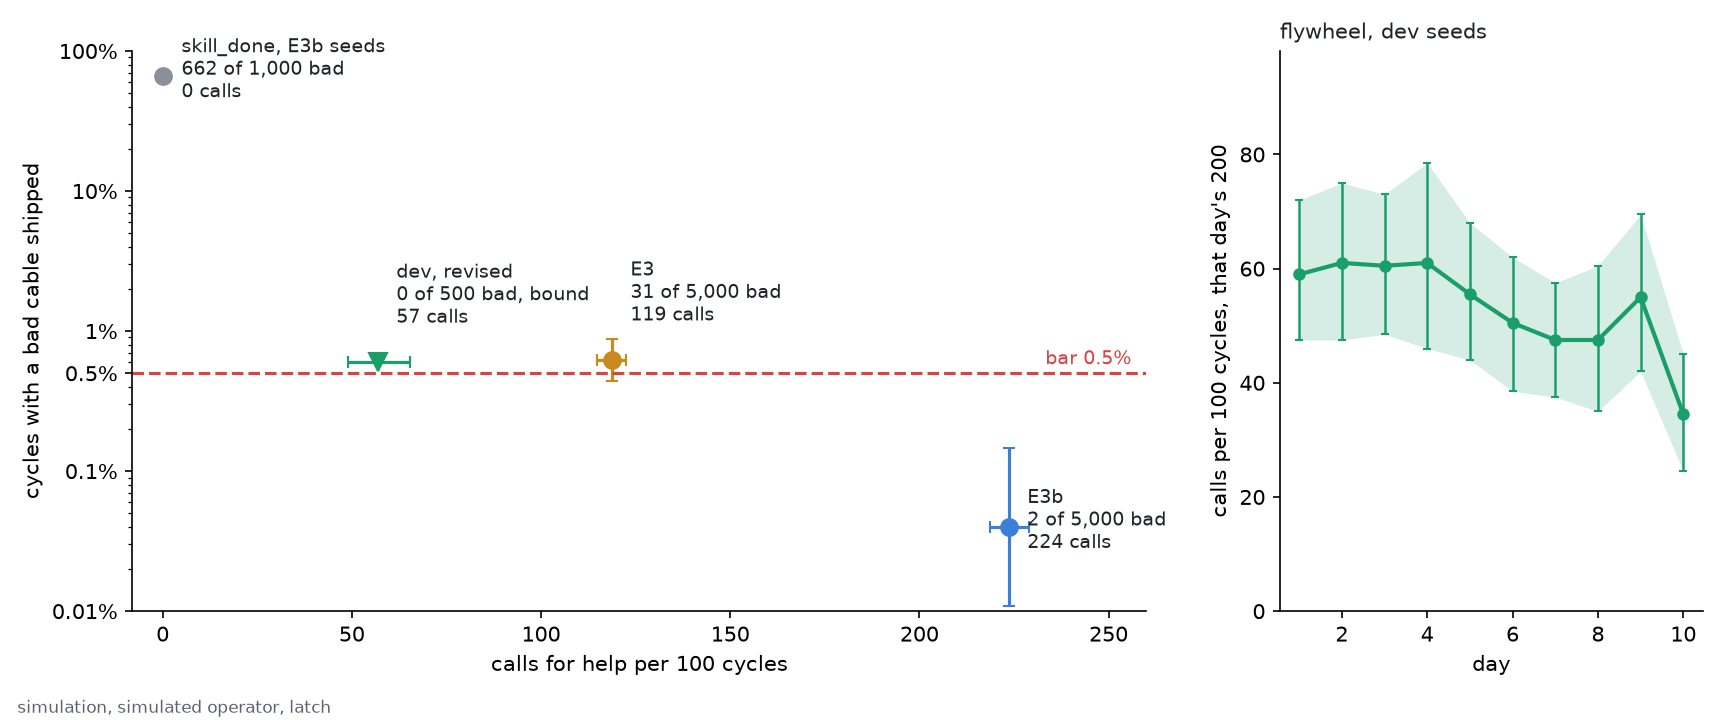
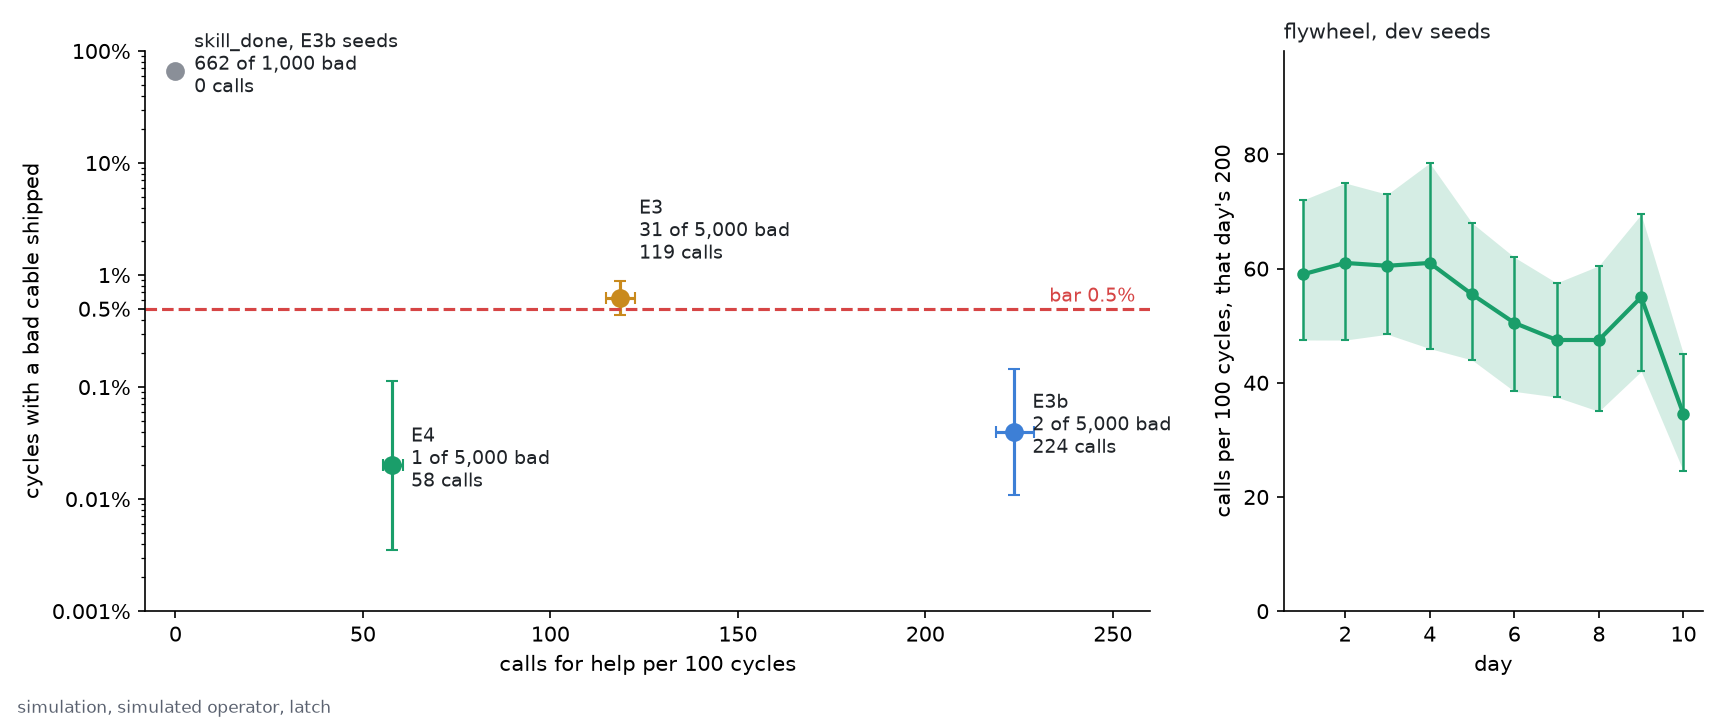
E4's result: README, RESULTS, figure and checklist, and the frontier script
E4 ran on this code on 2026-11-16 and passed both hypotheses: 1 of 5,000 cycles shipped a bad cable
(bound 0.095%) at 57.8 calls for help per 100 cycles (bound 60.2). The README, docs/RESULTS.md and the
frontier figure report it, with its 1 bad cable, the release check's pattern behind it, the stall
features' replay on E3b's 2 stalls, and the calls a good 2nd release try draws. docs/HOW_IT_WORKS.md says
where a retry and a recovery action come before a person. avail/analysis/frontier.py is the working
repo's (each flywheel day's interval, a y axis that reaches E4's interval). The cable loop's code is
unchanged. The scan read 243 text files and found 0 hits.

diff --git a/avail/analysis/frontier.py b/avail/analysis/frontier.py
@@ -3,7 +3,8 @@
 Left: x is calls for help per 100 cycles (the shift card's assists), with a 95% percentile-bootstrap interval over
 cycles. y is cycles with a bad cable shipped, log scale, with a Wilson 95% interval. A run with 0 such cycles is drawn at
 its one-sided 95% upper bound as a downward marker. The dashed line is the 0.5% bar. Right, small: the flywheel's calls
-per 100 cycles by day on its held-out set, when that run exists. Everything comes from ledgers and JSON files on disk.
+per 100 cycles on each day's own 200 cycles, with a 95% bootstrap interval from that day's ledgers, when that run
+exists. Everything comes from ledgers and JSON files on disk.
 
 Usage::
 
@@ -75,9 +76,13 @@ def draw(points: list[dict], flywheel: dict | None, out: Path) -> Path:
     ax.axhline(0.5, ls="--", color=BAR, lw=1.5)
     ax.text(right - 4, 0.58, "bar 0.5%", color=BAR, fontsize=9, ha="right")
     ax.set_yscale("log")
-    ax.set_ylim(0.01, 100)
+    # the axis reaches down to the lowest interval drawn (E4's Wilson interval on 1 bad cycle in 5,000 starts at 0.0035%)
+    floor = min([0.01] + [100 * p["lo"] for p in points if p["bad"] > 0 and p["lo"] > 0])
+    bottom = float(10 ** np.floor(np.log10(floor)))
+    ax.set_ylim(bottom, 100)
     ax.set_xlim(-8, right)
-    ax.set_yticks([0.01, 0.1, 0.5, 1, 10, 100], ["0.01%", "0.1%", "0.5%", "1%", "10%", "100%"])
+    ticks = [t for t in (0.001, 0.01, 0.1, 0.5, 1, 10, 100) if t >= bottom]
+    ax.set_yticks(ticks, [f"{t:g}%" for t in ticks])
     ax.set_xlabel("calls for help per 100 cycles")
     ax.set_ylabel("cycles with a bad cable shipped")
     for s in ("top", "right"):
@@ -89,11 +94,13 @@ def draw(points: list[dict], flywheel: dict | None, out: Path) -> Path:
         ys = [r["calls_per_100"] for r in d]
         lo = [r.get("calls_lo", r["calls_per_100"]) for r in d]
         hi = [r.get("calls_hi", r["calls_per_100"]) for r in d]
+        fx.errorbar(xs, ys, yerr=[[y - a for y, a in zip(ys, lo)], [b - y for y, b in zip(ys, hi)]], fmt="none",
+                    ecolor=COLORS["E4"], elinewidth=1.2, capsize=2)
         fx.fill_between(xs, lo, hi, color=COLORS["E4"], alpha=0.18, lw=0)
         fx.plot(xs, ys, "-o", color=COLORS["E4"], lw=2, ms=5)
         fx.set_xlabel("day")
-        fx.set_ylabel("calls per 100 cycles, held-out")
-        fx.set_title("flywheel (dev)", fontsize=10, color=INK, loc="left")
+        fx.set_ylabel("calls per 100 cycles, that day's 200")
+        fx.set_title("flywheel, dev seeds", fontsize=10, color=INK, loc="left")
         fx.set_ylim(0, max(hi) * 1.25 if max(hi) > 0 else 1)
     else:
         fx.text(0.5, 0.5, "flywheel: not run yet", ha="center", va="center", color=MUTED, fontsize=10,
@@ -125,6 +132,11 @@ def main(argv: list[str] | None = None) -> int:
         pts.append(point(label, Path(path), arm))
     pts = [p for p in pts if p]
     fly = json.loads(args.flywheel.read_text(encoding="utf-8")) if args.flywheel and args.flywheel.is_file() else None
+    if fly:                                            # each day's 95% interval on its own cycles, from its ledgers
+        for r in fly.get("days", []):
+            p = point("day", args.flywheel.parent / "days" / f"day{int(r['day']):02d}", "avail_simop")
+            if p:
+                r["calls_lo"], r["calls_hi"] = p["calls_lo"], p["calls_hi"]
     draw(pts, fly, args.out)
     if args.json:
         args.json.write_text(json.dumps({"points": pts, "flywheel": fly}, indent=1, default=float), encoding="utf-8",

diff --git a/README.md b/README.md
@@ -1,16 +1,16 @@
 # AVAIL
 
-![Calls for help per 100 cycles against cycles with a bad cable shipped, in simulation with a simulated operator: the skills alone shipped a bad cable in 662 of 1,000 cycles at 0 calls, E3 in 31 of 5,000 at 119 calls, E3b in 2 of 5,000 at 224 calls, and the code here in 0 of 500 dev cycles at 57 calls, against a 0.5% bar. A small panel shows calls per 100 cycles over 10 simulated days of recalibration](docs/img/frontier.png)
+![Calls for help per 100 cycles against cycles with a bad cable shipped, in simulation with a simulated operator: the skills alone shipped a bad cable in 662 of 1,000 cycles at 0 calls, E3 in 31 of 5,000 at 119 calls, E3b in 2 of 5,000 at 224 calls, and E4, the code here, in 1 of 5,000 at 58 calls, against a 0.5% bar. A small panel shows calls per 100 cycles over 10 simulated days of recalibration](docs/img/frontier.png)
 
 AVAIL is a verification and ask-for-help layer for agentic robot stacks. A step counts as done only when calibrated
 evidence or a person says so. Each check's false-accept rate is bounded by class-conditional conformal calibration.
-Uncertain or failed steps go to recovery actions and then to an operator. Every answer is recorded for recalibration.
+When a check says no, the robot retries the step and, where the task has one, runs a recovery action, and the same
+check decides again. Only then does it call an operator. Every answer is recorded for recalibration.
 
 Everything in this repository is simulation, and the operator is simulated too: it answers from simulator truth and
 takes over with a scripted correction. In the figure a simulated dual-arm YAM picks 5 cables per cycle and plugs each
 into its assigned `latch` port. A cycle ships a bad cable when it ends declared done while a cable is not seated,
-latched and let go in its assigned port. Each point is 1 run with 95% intervals: 3 on test seeds read once, and the
-point marked dev on 500 dev cycles of the code here, drawn at its one-sided bound since it had 0 bad cycles. The
+latched and let go in its assigned port. Each point is 1 run on test seeds read once, with 95% intervals. The
 dashed line is the bar set before the runs: under 0.5% of cycles at 95% confidence, which allows at most 16 bad cycles
 in 5,000. The small panel is 10 simulated days of 200 dev cycles, each day's thresholds recalibrated on the operator's
 answers from the days before.
@@ -20,14 +20,20 @@ answers from the days before.
 | The skills' own done flags, on E3b's seeds | 1,000 | 662 (66.2%, 63.2 to 69.1) | 0 | 87 s |
 | E3: AVAIL with the simulated operator | 5,000 | 31 (0.62%, 0.44 to 0.88), bound 0.84% | 118.7 | 157 s |
 | E3b: the same after its checks were fixed | 5,000 | 2 (0.04%, 0.01 to 0.15), bound 0.13% | 223.6 | 219 s |
+| E4: the code here, after 4 more changes | 5,000 | 1 (0.02%, 0.004 to 0.11), bound 0.095% | 57.8 | 160 s |
 
-Rates carry a Wilson 95% interval, and bounds are one-sided 95% Clopper-Pearson. E3 missed the bar. Every bad cable
-it shipped passed at the release step, through a hand-set rule with no calibrated bound. Before E3b the 3 hand-set
-checks became calibrated witnesses, and the release check learned to close the jaws on the released plug and pull it
-lightly, which a latched plug holds. E3b met the bar on new seeds, at 223.6 calls for help per 100 cycles and 2.53
-times the skills' cycle time. The 2 runs are not 2 tests of 1 system, and E3's failure stays on record. Both ran
-before the recovery ladder in this code existed. In them the only recovery was 1 retry of a rejected step, and an
-uncertain step went straight to the operator. [RESULTS.md](docs/RESULTS.md) has every table.
+Rates carry a Wilson 95% interval, and bounds are one-sided 95% Clopper-Pearson. E3 missed the bar. Every bad cable it
+shipped passed at the release step, through a hand-set rule with no calibrated bound. Before E3b the 3 hand-set checks
+became calibrated witnesses, and the release check learned to close the jaws on the released plug and pull it lightly,
+which a latched plug holds. E3b met the bar on new seeds, at 223.6 calls for help per 100 cycles and 2.53 times the
+skills' cycle time. In E3 and E3b the only recovery was 1 retry of a rejected step. E4 ran the code here, which adds 4
+changes chosen on dev and calibration seeds: 2 features that let the release pull tell a stall from a hold, new alphas
+for 3 of the checks, 2 of them from an error budget, a rule that lets those 3 accept where their 2 thresholds cross
+instead of abstaining, and recovery actions after the carry's and the insertion's last reject or an abstain (a regrip
+of a cable that hangs crooked over its port, a reinsert of the plug). On new seeds it met the same bar with 1 bad
+cycle in 5,000, at 57.8 calls for help per 100 cycles and 1.85 times the skills' cycle time, so 1 operator covers 4.8
+robots against E3b's 2.2. The 4 changes ran together. The 3 runs are not 3 tests of 1 system, and E3's failure stays
+on record. [RESULTS.md](docs/RESULTS.md) has every table.
 
 ## Run the demo: 1 command
 
@@ -60,8 +66,8 @@ skip and say so.
 In simulation, agentic robotics systems grade themselves with privileged truth: ASPIRE keeps the programs its
 benchmark scores as successes, RPG practices against simulator checkers, and EmbodiedSWE grades against hidden rubrics
 and trains only on verified outcomes. On a real robot that grader is gone. AVAIL is a grader you can take to the real
-robot: physical checks with an error rate measured against sim truth, a person when it cannot tell, and every
-intervention logged as labeled data, all outside the agent.
+robot: physical checks with an error rate measured against sim truth, a retry or a recovery action when a check says
+no, a person when those fail, and every intervention logged as labeled data, all outside the agent.
 
 ## Use it
 
@@ -97,15 +103,20 @@ per 100 cycles.
 
 - No real hardware yet. Every number is simulation. A real camera, connector and force estimate will be noisier.
 - The operator is simulated. It answers from simulator truth, is wrong on 2% of confirms by design, and takes over
-  with a scripted correction.
-- E3b met the bar at a high cost: 223.6 calls for help per 100 cycles and 2.2 robots per operator. A run that asks
-  for the same bar at half the calls, E4, is written down in `config/experiment.yaml` and has not run.
-- The code here is 2 days newer than E3b. It adds the recovery ladder (a 2nd look, a regrip or a reinsert before a
-  call), per-check alphas from an error budget and a rule for crossed thresholds, all chosen on dev and calibration
-  seeds. None of them has a test-seed result. A 1st gate on 500 dev cycles, which allows at most 1 bad cycle, failed
-  with 2 in its 1st 154, both after a recovery action that was then dropped. Without it, 500 new dev cycles had 0 bad
-  cycles at 56.8 calls for help per 100 cycles and 4.9 robots per operator. 0 in 500 bounds the rate at 0.60%, so
-  that is a dev number and cannot meet the bar alone.
+  with a scripted correction. E4 asked it no confirm.
+- E4 met the bar once, on 1 connector. Its design was revised after a failed gate: a 1st gate on 500 dev cycles,
+  which allows at most 1 bad cycle, failed with 2 in its 1st 154. A recovery action was dropped, 2 bugs were fixed and
+  2 other recovery changes were made, a 2nd gate passed on 500 fresh dev cycles, and E4 then read its seeds once. The
+  bar and the hypotheses did not change. The 4 changes since E3b ran together, so E4 cannot say which one cut the calls.
+- E4's 1 bad cable passed the release check's 1st stage, as both bad cycles of the failed gate had. In all 3 the
+  gripper's fingers stuck on the 1st release try, the camera later lost the plug and read a steep slant, and the
+  check's 1st stage, a score linear in its readings, accepted a later claim of that release. That makes 3
+  occurrences, a pattern to fix by this project's own rule. The check here is as E4 ran it.
+- The pull's stall features cover 1 of E3b's 2 stalls. Scored again on their recorded evidence, the check here
+  rejects 1 and still accepts the other, and E4 had no bad release whose pull stalled.
+- Calls are counted, and a takeover costs far more than a confirm. 541 of E4's 2,892 calls came after the release
+  check rejected a good 2nd try. It weighs a 2nd release try heavily toward bad, because in its tables a 2nd try
+  followed only a 1st that truly failed.
 - ASPIRE's real server was not run. The proxy was tested against a mock built from ASPIRE's own tool definitions.
 - The closed-loop judge is a cheap model. A stronger judge may pass fewer bad plugs and was not run in closed loop.
 - The bounds hold for states like these: this station and this mix of failures.

diff --git a/docs/RESULTS.md b/docs/RESULTS.md
@@ -3,7 +3,7 @@
 Level 1: in simulation, a skill's own done flag passes about 80% of bad plugs, a tug passes about 2%, a cheap VLM
 judge 18% to 32%, and AVAIL's calibrated cascade under 1%, asking a person about 3% of the time. On a 5-cable loop with
 a simulated operator, AVAIL shipped a bad cable in 31 of 5,000 cycles in E3 and, after its checks were fixed, in 2 of
-5,000 in E3b, at 223.6 calls for help per 100 cycles.
+5,000 in E3b, at 223.6 calls for help per 100 cycles. E4, the code here, shipped 1 in 5,000 at 57.8 calls.
 
 Every number on this page is simulation, from the plug and cable station in `avail/station/mj_plug`, scored against
 truth the checks never read. Test seeds were read once. Rates carry a Wilson 95% interval, and bounds are one-sided
@@ -60,8 +60,9 @@ Luna's low rate comes from saying no to almost every plug, good ones too.
 ## The cable loop (sim)
 
 A cycle picks 5 cables from a rack and plugs each into its assigned `latch` port. Arms: `flag` (`skill_done` in E3b)
-trusts each skill's own done, `avail` gates each step and never asks, `avail_simop` gates each step and asks a
-simulated operator when it cannot tell. E3 recorded that arm under its old name, `avail_human`. The simulated operator
+trusts each skill's own done, `avail` gates each step and never asks, `avail_simop` gates each step and calls a
+simulated operator when its checks and recovery do not settle the step. E3 recorded that arm under its old name,
+`avail_human`. The simulated operator
 answers from truth and takes over with a scripted correction. A cycle ships a bad cable when it ends declared done
 while a cable is not seated, latched and let go in its assigned port.
 
@@ -107,11 +108,64 @@ the operator's answering and handling time per cycle. The pull adds 18.4 s of ch
 the calls: a cable cocked in the jaws stays cocked when the carry is tried again. The 2 runs are not 2 tests of 1
 system. E3b's checks were changed after E3 failed, and it ran on new seeds. E3's failure stays on record.
 
-![Calls for help per 100 cycles against cycles with a bad cable shipped, for the skills alone, E3 and E3b](img/frontier.png)
-
 E3 and E3b ran before the recovery ladder that is in the code now (`fork.ladder` in `tasks/cable_loop.yaml`). In both,
-a rejected step was retried once, and an uncertain step or a 2nd reject went to the operator. The ladder has no
-test-seed result.
+a rejected step was retried once, and an uncertain step or a 2nd reject went to the operator. E4 below tests the
+ladder together with 3 other changes.
+
+### E4: the same bar at a quarter of E3b's calls (sim, `latch`, new test seeds read once)
+
+E4 asked whether the bar holds at a cost a deployment would accept. Written before the run: H4a, `avail_simop` ships a
+bad cable in under 0.5% of cycles at 95% (at most 16 of 5,000), and H4b, the one-sided 95% upper bound on its calls
+for help per 100 cycles, from a bootstrap over cycles, is at most 112, half of E3b's 224. Both had to pass. 4 things
+changed after E3b, all chosen on dev and calibration seeds. The release pull got 2 features that tell a pull that
+stalled from one that held. `held` and `released_stable` got alphas from an error budget whose union bound is 0.477%
+per cycle, `at_port` got 0.025, the alpha with the fewest claims sent to the operator plus bad claims passed on, and
+the insertion check kept 0.01. Where a stage's 2 thresholds cross, the pick, carry and release checks now accept
+above their accept threshold, where E3b's abstained between the 2. The insertion check keeps that abstain. And after
+the last reject of a carry or an insertion, or an abstain, the robot regrips a cable that hangs crooked over its port
+or reinserts the plug, and the same check decides again on a fresh claim. The pick and the release have no such
+action after a reject, so they call after their 2nd try as before. A 1st gate on dev seeds failed
+with 2 bad cycles in 154, both after a 4th recovery action that pushed the released plug home. That action was
+dropped, 2 bugs were fixed, 2 other recovery changes were made (a 2nd look at a held cable only after an abstain, and
+the regrip carrying through the stand-in's waypoint), and a 2nd gate on 500 fresh dev cycles passed. E4 read seeds
+40,000 to 44,999 once, on 2026-11-16, with `skill_done` on the 1st 1,000 of them. The code in this repository is
+the code E4 ran, except the demo's fresh-clone setup and the figure script.
+
+| Sim, E4, 2026-11-16 | `skill_done` | `avail_simop` |
+|---|---|---|
+| Cycles | 1,000 | 5,000 |
+| Cycles with a bad cable shipped | 65.4% (654, 62.4 to 68.3) | 0.02% (1, 0.004 to 0.11), bound 0.095% |
+| Calls for help per 100 cycles | 0 | 57.8, bound 60.2 |
+| Seconds per cycle | 87 | 160 (1.85x) |
+| Robots per operator | no operator | 4.8 |
+
+Both passed: 1 bad cycle against at most 16, and a bound of 60.2 calls against 112. 1 operator covers 4.8 robots
+(E3b 2.2), and takeovers came at 43.9 per 100 cycles. The 4 changes ran together, so E4 cannot say which one cut the
+calls. Before a call, the plain 2nd try turned 2,837 truly failed steps into accepted good ones, and the rungs 2,208
+more (1,173 regrips and 1,035 reinserts that made a bad step good and were accepted). Neither rung made a good step
+bad. The checks could not decide 4 times in 5,000 cycles, all on good insertions, and the reinsert settled each, so
+the operator was never asked to confirm. E3b had made 73.3 calls per 100 cycles after an abstain.
+
+The 1 bad cable followed a stuck release. The fingers did not open on the 1st try, and the 20 mm lift pulled the
+latched plug with the jaws closed until the latch gave, twice. The release check rejected that try. The retry opened
+the jaws while the arm was still springing up, and the plug fell 32 mm beside its port. The release check's 1st stage,
+a logistic score over the jaws, the release record, the lift's forces and the camera, accepted it before the pull. The
+camera's 64 degree slant and the opening height on record, 79.7 mm and read mid-spring, pushed the score up. Each sits
+at the top of the 216 bad claims of that kind in its calibration table, all of which it rejected, and no row of its
+tables holds the 2 together. Both bad cycles of the failed gate came the same way, after the dropped action: a stuck
+release, the camera without the plug and a steep slant, and a stage-1 accept. That makes 3 occurrences, a pattern to
+fix. E3b's 2 bad cables came another way: the pull stalled and was read as a hold. E4 had no bad release whose pull
+stalled. Scored again on their recorded evidence, the check here rejects 1 of E3b's 2 stalls and still accepts the
+other. On both the camera found neither housing nor plug and the pull did not slip, so 17 readings are absent, as on
+E4's own claims of that kind, and the check fills them with its fit medians as it does live.
+
+Where the calls came from: the release 27.5 per 100 cycles, the carry 22.7, the insertion 6.8 and the pick 0.7. Of
+the release's 1,377 calls, 518 came after it rejected a good release twice and 23 after it rejected a good retry of a
+stuck release: it rejected every good 2nd try (541 of 541). It weighs a 2nd release try heavily toward bad, since in
+its tables a 2nd try followed only a 1st that truly failed, and 480 of the 485 in its calibration table were bad. The
+790 cables with a stuck release drew 814 of the release's calls.
+
+![Calls for help per 100 cycles against cycles with a bad cable shipped, for the skills alone, E3, E3b and E4](img/frontier.png)
 
 ### The figure run (sim, `latch`, 100 new test seeds read once)
 

diff --git a/docs/HOW_IT_WORKS.md b/docs/HOW_IT_WORKS.md
@@ -1,7 +1,9 @@
 # How AVAIL works
 
-Level 1: a skill claims a step is done, AVAIL gathers evidence, a calibrated check accepts, rejects or abstains, an
-abstain goes to a person, and only an accept or a person's sign-off marks the step done.
+Level 1: a skill claims a step is done, AVAIL gathers evidence, and a calibrated check accepts, rejects or abstains.
+A reject is retried while tries are left. After the last reject, or after an abstain, a recovery action runs where the
+task lists one and the same check decides again. A step that is still not settled goes to a person, or back to the
+skill when a reject leaves a try. Only an accept or a person's sign-off marks the step done.
 
 ![The loop](img/loop.svg)
 
@@ -19,8 +21,9 @@ abstain goes to a person, and only an accept or a person's sign-off marks the st
 4. **Fork.** A reject with tries left goes back to the skill. A reject with no tries left, or an abstain, goes to a
    person with a handoff: what was claimed, what each source said, and the frames. The person confirms, rejects, or
    takes over and fixes it. Before that call a task file can list recovery actions per predicate (`fork.ladder`),
-   each followed by the same witness on a fresh claim. The cable loop's are a 2nd look at the held cable, a regrip
-   and a reinsert. A recovery action never decides: only the witness can accept after it.
+   each followed by the same witness on a fresh claim. The cable loop's are a regrip for the carry and a reinsert
+   for the insertion, after the last reject or an abstain, and a 2nd look at the held cable after an abstain only. A
+   recovery action never decides: only the witness can accept after it.
 5. **Done gate.** A step is done only with an accept verdict or a person's sign-off. No argument of any tool can
    mark a step done, and a test checks that no function accepts free text as a decision.
 6. **Ledger and exports.** Every claim, evidence value, verdict, question and takeover is 1 record. A person's answer

diff --git a/RELEASE_CHECK.md b/RELEASE_CHECK.md
@@ -39,6 +39,15 @@ names no person. A case-insensitive search for both names found that same line a
   simulates anything, with `--no-setup` to skip that), and `scripts/setup_aspire.py`, which now prints its
   "Next" line only when it runs as a script.
 
+## The E4 update (2026-11-16, evening)
+
+- E4 ran on this code and passed both of its hypotheses. The README, `docs/RESULTS.md`, `docs/img/frontier.png`
+  and `docs/img/frontier.json` now report it, and the opening line of `docs/HOW_IT_WORKS.md` now says where a retry
+  and a recovery action come before a person.
+- `avail/analysis/frontier.py` is the working repo's, which draws each flywheel day's interval and lets the y axis
+  reach E4's interval. No other code changed, so the cable loop's code is the code E4 ran.
+- The rescan after these edits read 243 text files and found 0 hits.
+
 ## What was left out
 
 The private notes, the session briefs, the plan, the agent instructions, reports and drafts, archived worktrees, all
@@ -56,8 +65,7 @@ recorded from this snapshot.
   Tedrake's CoRL 2026 keynote by name only. Add a link or paper ID for each. The 43% hack rate is EmbodiedSWE's
   figure as recalled in the brief, so confirm it against the paper.
 - `Kevin` appears 54 times in code comments and config, as the person whose decisions set the experiments.
-- The README says E4 has not run and that a 1st gate on dev seeds failed. If either has a newer result by the time
-  this is pushed, update "What this does not show" and the frontier figure.
+- E4 ran on 2026-11-16, after the scan above. The README and the figure report it (see "The E4 update" above).
 
 ## The fresh clone (2026-11-16, 04:44 to 05:01)
 
